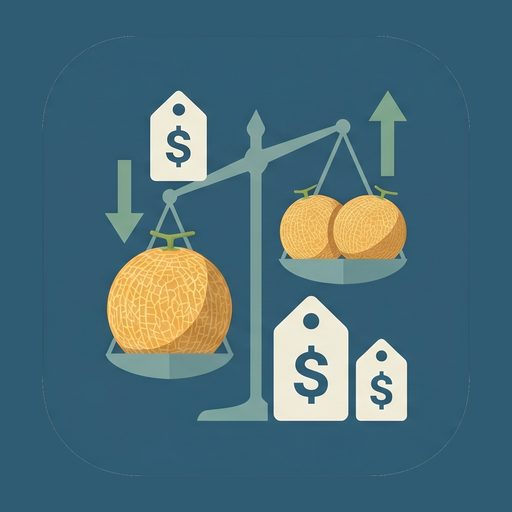
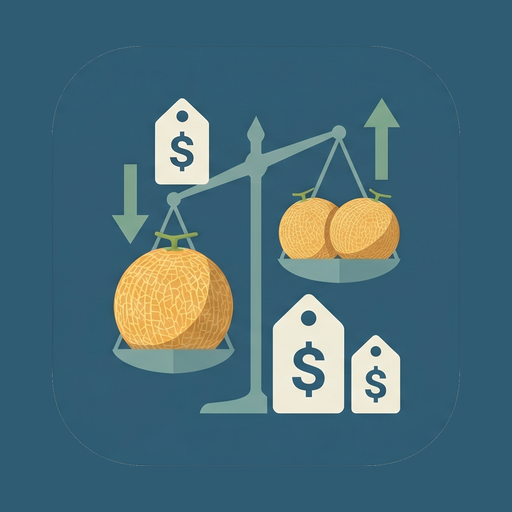
chore(004): F-Droid doc sync for v0.1.7 (PR T) (#31)
* chore(004): release prep for v0.1.7 (PR T)

Bump versionCode to 8 and versionName to 0.1.7, add en-US and es-ES
fastlane changelogs for quantity units, regenerate launcher and store
icons at ART_SCALE 0.82, and sync docs/fdroid.md plus task ledgers.

Deferred from PR #30 (feature implementation) so icon-byte churn and
the F-Droid playbook twin land in one release-cut PR.

* docs(fdroid): pin v0.1.7 release commit SHA

---------

Changed region(s): [[0.1875, 0.1562, 0.8125, 0.75], [0.375, 0.5625, 0.8125, 0.8438]]

diff --git a/branding/regenerate-icons.py b/branding/regenerate-icons.py
@@ -64,7 +64,7 @@ BG_HEX = "#2F5C73"
 # elements (top-right arrow, bottom-right price tag) inside the circular
 # masks F-Droid and most launchers apply. v0.1.5 used 0.95 for adaptive
 # foreground only and full-bleed legacy / fastlane icons, which clipped.
-ART_SCALE = 0.86
+ART_SCALE = 0.82
 
 # Density buckets and their pixel-per-dp multipliers.
 DENSITIES: dict[str, float] = {

diff --git a/specs/004-quantity-units/tasks.md b/specs/004-quantity-units/tasks.md
@@ -114,14 +114,14 @@ quantity fields and shelf unit in savings; 200% font scale still fits.
 **Purpose**: Version bump, changelogs, icon padding, master ledger, manual
 verification gate before tag. Doc-only F-Droid sync lands in PR T.
 
-- [ ] T031 [P] Bump `android/app/build.gradle.kts`: `versionCode = 8`, `versionName = "0.1.7"`.
-- [ ] T032 [P] Create `fastlane/metadata/android/en-US/changelogs/8.txt` — quantity units, cross-dimension guard, per kg/L/piece savings, icon inset tweak.
-- [ ] T033 [P] Mirror T032 in `fastlane/metadata/android/es-ES/changelogs/8.txt`.
-- [ ] T034 [P] Set `ART_SCALE = 0.82` in `branding/regenerate-icons.py`; run `python3 branding/regenerate-icons.py`; commit regenerated `mipmap-*` and `fastlane/metadata/android/{en-US,es-ES}/images/icon.png`.
-- [ ] T035 Update master PR ledger in `specs/001-unit-price-comparison/tasks.md` with PR R / S / T entries (if not already done in planning PR O).
+- [x] T031 [P] Bump `android/app/build.gradle.kts`: `versionCode = 8`, `versionName = "0.1.7"`.
+- [x] T032 [P] Create `fastlane/metadata/android/en-US/changelogs/8.txt` — quantity units, cross-dimension guard, per kg/L/piece savings, icon inset tweak.
+- [x] T033 [P] Mirror T032 in `fastlane/metadata/android/es-ES/changelogs/8.txt`.
+- [x] T034 [P] Set `ART_SCALE = 0.82` in `branding/regenerate-icons.py`; run `python3 branding/regenerate-icons.py`; commit regenerated `mipmap-*` and `fastlane/metadata/android/{en-US,es-ES}/images/icon.png`.
+- [x] T035 Update master PR ledger in `specs/001-unit-price-comparison/tasks.md` with PR R / S / T entries (if not already done in planning PR O).
 - [ ] T036 Manual verification: 11-step walkthrough from [`plan.md`](./plan.md) § Manual verification on signed v0.1.7 APK.
 - [ ] T037 Tag `v0.1.7` from `main` after PR S merges and T036 passes; confirm GitHub Release APK attached.
-- [ ] T038 Update `docs/fdroid.md` §3 / §5 for v0.1.7 (PR T — `chore/021-fdroid-doc-sync-v0.1.7`).
+- [x] T038 Update `docs/fdroid.md` §3 / §5 for v0.1.7 (PR T — `chore/021-fdroid-doc-sync-v0.1.7`).
 
 **Checkpoint**: v0.1.7 tagged; F-Droid playbook synced in PR T.
 
@@ -153,17 +153,17 @@ Ships `specs/004-quantity-units/` (spec, plan, research, data-model,
 contracts, tasks) and `.specify/feature.json` pointer. **No source code.**
 Marco reviews FR-001..FR-009 and SC-001..SC-005 before implementation.
 
-### PR S — `feat/020-quantity-units-impl` *(implementation)*
+### PR S — `feat/020-quantity-units-impl` *(implementation — PR #30, merged)*
 
-Phases 1–3 (T001–T030) plus release-prep tasks T031–T034, T037 bundled
-in implementation PR (version + changelogs + icon regen land with feature
-code). Branched from `main` after PR R merges.
+Phases 1–3 (T001–T030). Release-prep T031–T034 deferred to PR T so the
+implementation PR stays reviewable without icon-byte churn. Merged to
+`main` at `4d94807`.
 
-### PR T — `chore/021-fdroid-doc-sync-v0.1.7` *(release doc sync)*
+### PR T — `chore/021-fdroid-doc-sync-v0.1.7` *(release prep + doc sync)*
 
-T038 only: `docs/fdroid.md` bump to v0.1.7 full SHA, `Builds:` /
-`CurrentVersion` / `CurrentVersionCode`. Tag push (T037) happens outside
-this PR; same cadence as PR N / PR Q.
+T031–T034 + T038: version bump to 0.1.7 / `versionCode` 8, en/es
+changelogs, `ART_SCALE` 0.82 icon regen, and `docs/fdroid.md` §3 / §5
+sync. Tag push (T037) happens outside this PR; same cadence as PR Q.
 
 ### Notes
 

diff --git a/docs/fdroid.md b/docs/fdroid.md
@@ -83,9 +83,9 @@ Repo: https://github.com/mablanco/pricegrab.git
 Binaries: https://github.com/mablanco/pricegrab/releases/download/v%v/app-release.apk
 
 Builds:
-  - versionName: 0.1.5
-    versionCode: 6
-    commit: 139697036839c8355ce098db035ed5349fca1fdc
+  - versionName: 0.1.7
+    versionCode: 8
+    commit: 80c11dc4b8dd622be2d3082fd9ec0acc672fde4c
     subdir: android/app
     gradle:
       - yes
@@ -94,8 +94,8 @@ AllowedAPKSigningKeys: 70a9709ce5a4829668d9d50411b959bb90ad2e19d02e2069ad0ff3528
 
 AutoUpdateMode: Version
 UpdateCheckMode: Tags
-CurrentVersion: 0.1.5
-CurrentVersionCode: 6
+CurrentVersion: 0.1.7
+CurrentVersionCode: 8
 ```
 
 **Why these fields.**
@@ -121,7 +121,7 @@ CurrentVersionCode: 6
   the recipe Mode B: F-Droid will never publish an F-Droid-signed
   fallback for this package.
 - `Builds[0].commit:` uses the **full 40-character SHA-1** of the
-  v0.1.5 commit, not the tag name. F-Droid prefers immutable commit
+  v0.1.7 commit, not the tag name. F-Droid prefers immutable commit
   hashes over mutable tags; this convention is also what
   `AutoUpdateMode` itself writes when it auto-generates entries for
   future tags, so the style stays consistent across manual and
@@ -349,6 +349,18 @@ What it took to get to the current state, in chronological order:
     icon) is auto-discovered from the upstream `fastlane/` tree at
   commit `1396970`. Future tags are picked up automatically — no
   manual `fdroiddata` MR per release unless the recipe shape changes.
+11. **Upstream playbook sync for v0.1.7** (2026-05-23): feature 004
+    (quantity units for offer comparison —
+    [PR #30](https://github.com/mablanco/pricegrab/pull/30)) merged to
+    `main` at `4d94807` with implementation only; release prep (version
+    bump to `0.1.7` / `versionCode` 8, en/es changelogs for code 8,
+    `ART_SCALE` 0.82 icon regen) and this §3 / §5 recipe twin land in
+    PR T (`chore/021-fdroid-doc-sync-v0.1.7`). Same Mode B contract as
+    v0.1.5 — toolchain, signing key, and `vcsInfo.include = false` are
+    unchanged. F-Droid auto-update via `AutoUpdateMode: Version` +
+    `UpdateCheckMode: Tags` picks up the `v0.1.7` tag once Marco ships
+    it after manual verification (T036); the `Builds[0].commit` in §3
+    points at the tagged release commit on `main`.
 
 The byte-for-byte reproducibility verification for the **first**
 publication happened on F-Droid's main build farm via `fdroid publish`

diff --git a/specs/001-unit-price-comparison/tasks.md b/specs/001-unit-price-comparison/tasks.md
@@ -403,28 +403,24 @@ XML / icon asset change lands. See the detailed PR strategy inside
 for the cadence (PR R → PR S → PR T), which mirrors feature 003's
 PR O → PR P → PR Q.
 
-### PR S — `feat/020-quantity-units-impl`
+### PR S — `feat/020-quantity-units-impl` *(feature 004 — implementation — PR #30, merged)*
 
-Feature 004 implementation. Phases 1–3 (T001–T030) plus release-prep
-tasks (T031–T034, T037). Lands `QuantityUnit` / `Dimension`, normalized
-`Offer.unitPrice`, unit dropdowns on the Compare screen, cross-dimension
-rejection, per kg / per L / per piece savings copy, reset/undo unit
-snapshot integration, `ART_SCALE` 0.82 icon regeneration, and the app
-version bump 0.1.6 → 0.1.7 (`versionCode` 8). Branched off `main`
-*after* PR R merges, so the planning artefacts were on `main` before
-any code lands.
+Feature 004 implementation. Phases 1–3 (T001–T030). Lands `QuantityUnit` /
+`Dimension`, normalized `Offer.unitPrice`, unit dropdowns on the Compare
+screen, cross-dimension rejection, per kg / per L / per piece savings
+copy, and reset/undo unit snapshot integration. Release-prep T031–T034
+deferred to PR T. Merged to `main` at `4d94807` (2026-05-23).
 
 ### PR T — `chore/021-fdroid-doc-sync-v0.1.7` *(feature 004 — release cut)*
 
-Phase 4 doc-sync task (T038). Tag `v0.1.7` is pushed from `main`
-outside this PR; CI publishes the signed APK to GitHub Releases
-automatically. This PR is the pure-doc twin: it bumps `docs/fdroid.md`
-to point at v0.1.7's full SHA, updates `Builds:` /
-`CurrentVersion` / `CurrentVersionCode`, and extends the §5
-chronology with the v0.1.6 → v0.1.7 bump. Same cadence as PR Q for
-v0.1.5. Manual on-device verification of the 11-step walkthrough
+Phase 4 release prep (T031–T034) plus doc-sync (T038): version bump
+0.1.6 → 0.1.7 (`versionCode` 8), en/es changelogs, `ART_SCALE` 0.82
+icon regeneration, and `docs/fdroid.md` §3 / §5 sync. Tag `v0.1.7` is
+pushed from `main` outside this PR; CI publishes the signed APK to
+GitHub Releases automatically. Same cadence as PR Q for v0.1.5. Manual
+on-device verification of the 11-step walkthrough
 (`specs/004-quantity-units/plan.md` § Manual verification) gates the
-upstream MR edit, not this PR.
+tag push (T037), not this PR.
 
 ### Notes
 
